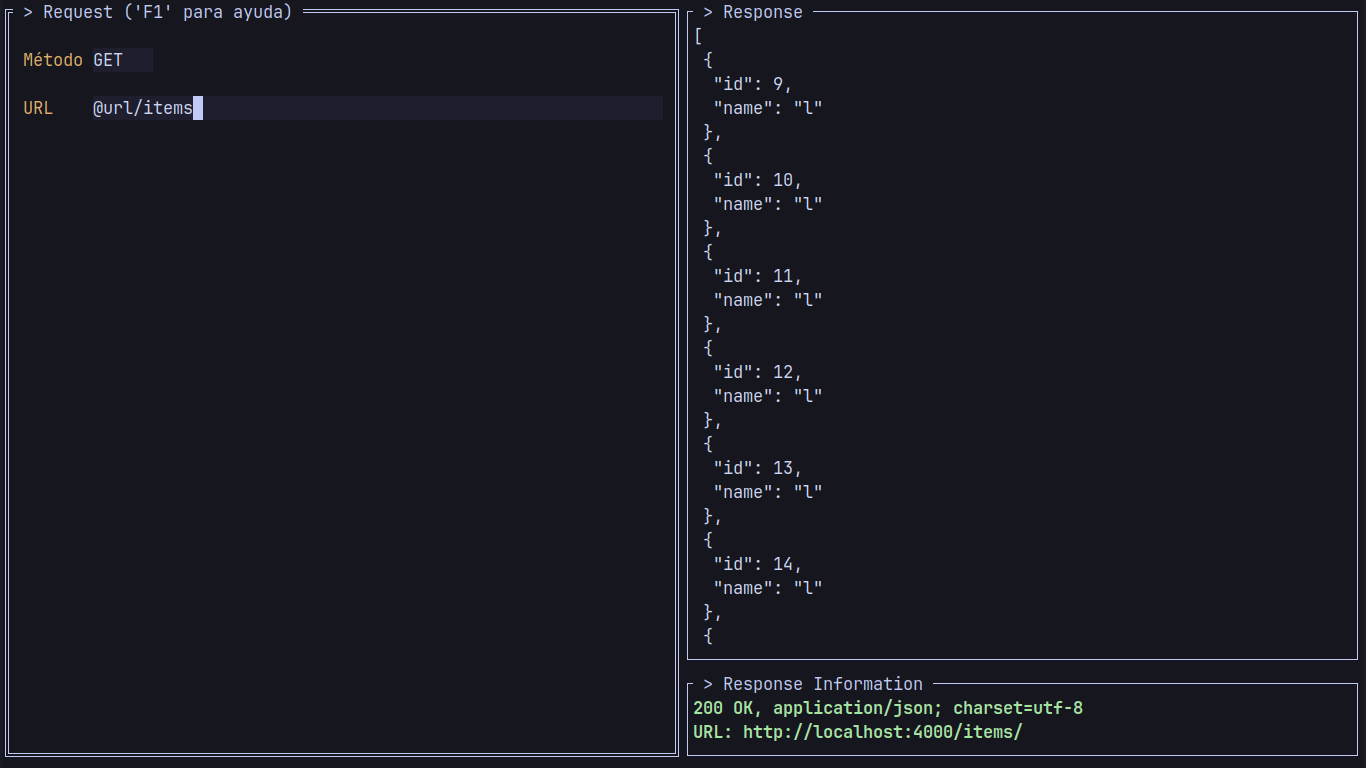
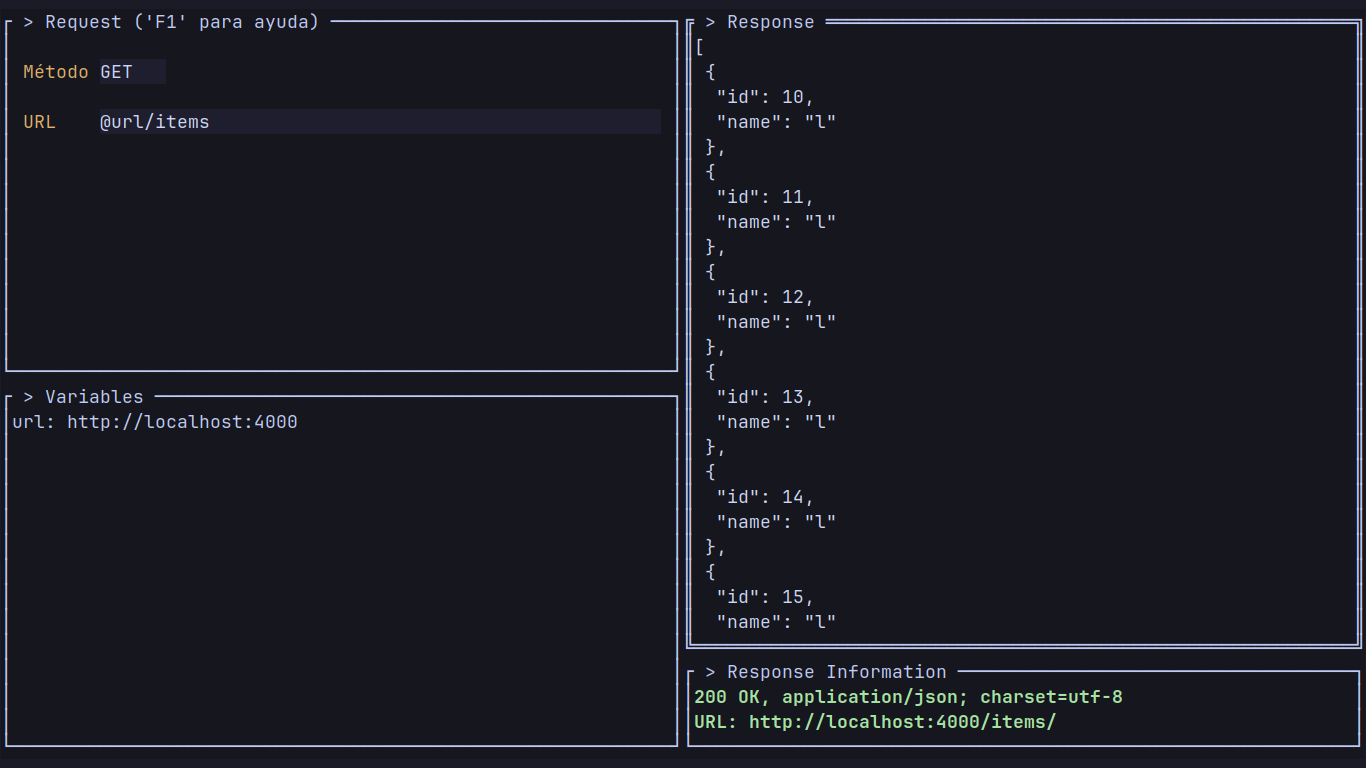
nuevo layout

Changed region(s): [[0.0, 0.0, 1.0, 1.0], [0.0, 0.4688, 0.2152, 0.5625], [0.0615, 0.125, 0.1537, 0.1875]]

diff --git a/main.go b/main.go
@@ -119,13 +119,25 @@ func main() {
 	mainPage := tview.NewPages()
 	workspacePages := tview.NewPages()
 
-	showHelpPage := false
+	flexx := tview.NewFlex()
+	flexx.SetDirection(tview.FlexRow)
 
-	windows := tview.NewFlex().SetDirection(tview.FlexRow).AddItem(workspacePages, 0, 2, false)
+	flexx.AddItem(form, 0, 1, true)
+	flexx.AddItem(
+		workspacePages.
+			AddPage("body", bodyEditor, true, true).
+			AddPage("header", headerEditor, true, false).
+			AddPage("qp", queryParamEditor, true, false).
+			AddPage("pp", pathParamEditor, true, false).
+			AddPage("var", variableEditor, true, false),
+		0, 1, false)
+
+	showHelpPage := false
 
 	responseWindow := tview.NewFlex().SetDirection(tview.FlexRow)
 	responseWindow.AddItem(responseView, 0, 8, false)
 	responseWindow.AddItem(responseInfo, 0, 1, false)
+	windows := tview.NewFlex().SetDirection(tview.FlexRow).AddItem(responseWindow, 0, 2, false)
 
 	Keys(app, workspacePages, windows)
 
@@ -134,15 +146,7 @@ func main() {
 	tview.Styles.MoreContrastBackgroundColor = tcell.ColorBlack.TrueColor()
 	tview.Styles.PrimaryTextColor = tcell.ColorDarkSlateGray.TrueColor()
 
-	workspacePages.
-		AddPage("body", bodyEditor, true, false).
-		AddPage("response", responseWindow, true, true).
-		AddPage("header", headerEditor, true, false).
-		AddPage("qp", queryParamEditor, true, false).
-		AddPage("pp", pathParamEditor, true, false).
-		AddPage("var", variableEditor, true, false)
-
-	flex.AddItem(form, 0, 1, false)
+	flex.AddItem(flexx, 0, 1, false)
 	flex.AddItem(windows, 0, 1, false)
 
 	fullScreen := false
@@ -182,7 +186,7 @@ func main() {
 		if event.Key() == tcell.KeyRune && event.Modifiers() == tcell.ModAlt {
 			switch event.Rune() {
 			case 'd':
-				workspacePages.SwitchToPage("response")
+				app.SetFocus(responseWindow)
 				SendInfo(input, dropdown, bodyEditor, headerEditor, queryParamEditor, pathParamEditor, variableEditor)
 
 			case 'n':

diff --git a/ui/history.go b/ui/history.go
@@ -27,6 +27,7 @@ func History() *tview.Flex {
 	list := tview.NewList()
 	list.SetSecondaryTextColor(constants.ColorBackground.TrueColor())
 	list.SetBorder(true)
+	list.SetTitle(" > Historial de Request ('F2' para volver, 'F3' para actualizar lista)")
 
 	flex := tview.NewFlex()
 	responseView := ResponseView()
